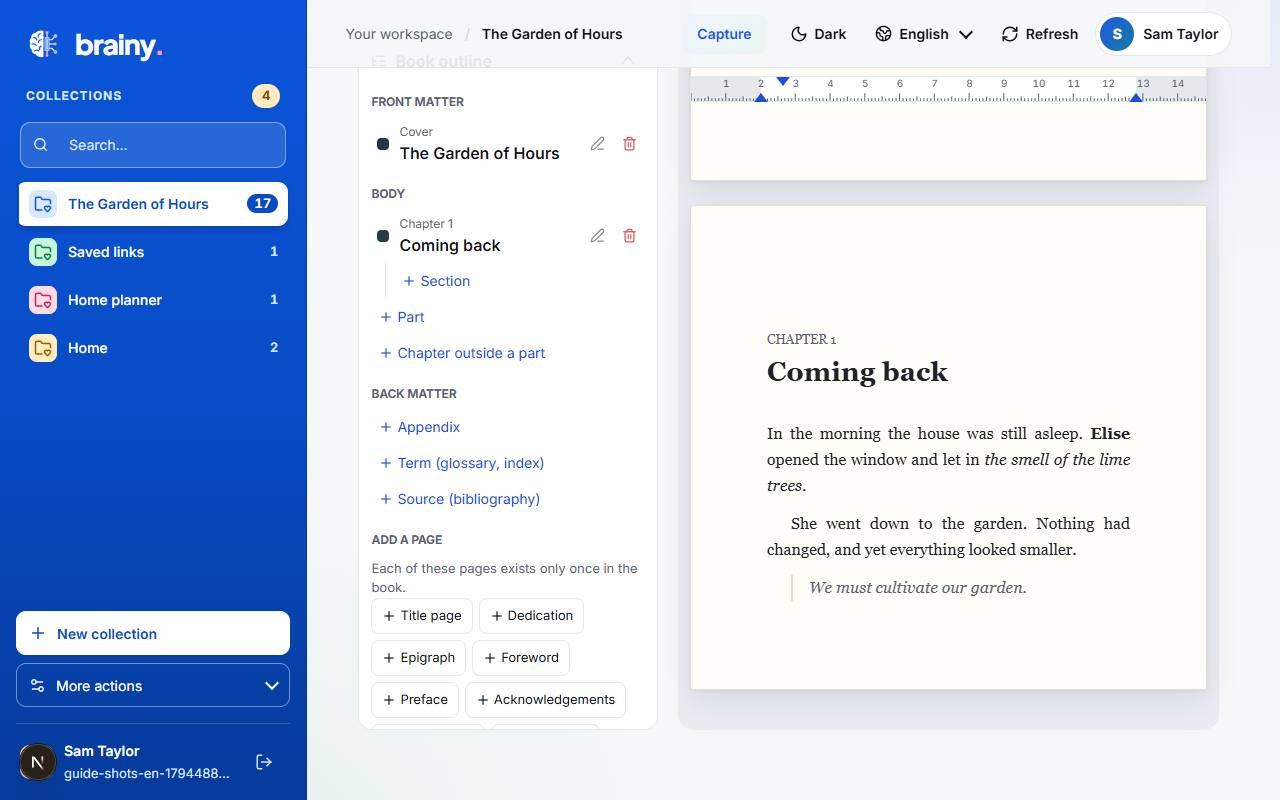
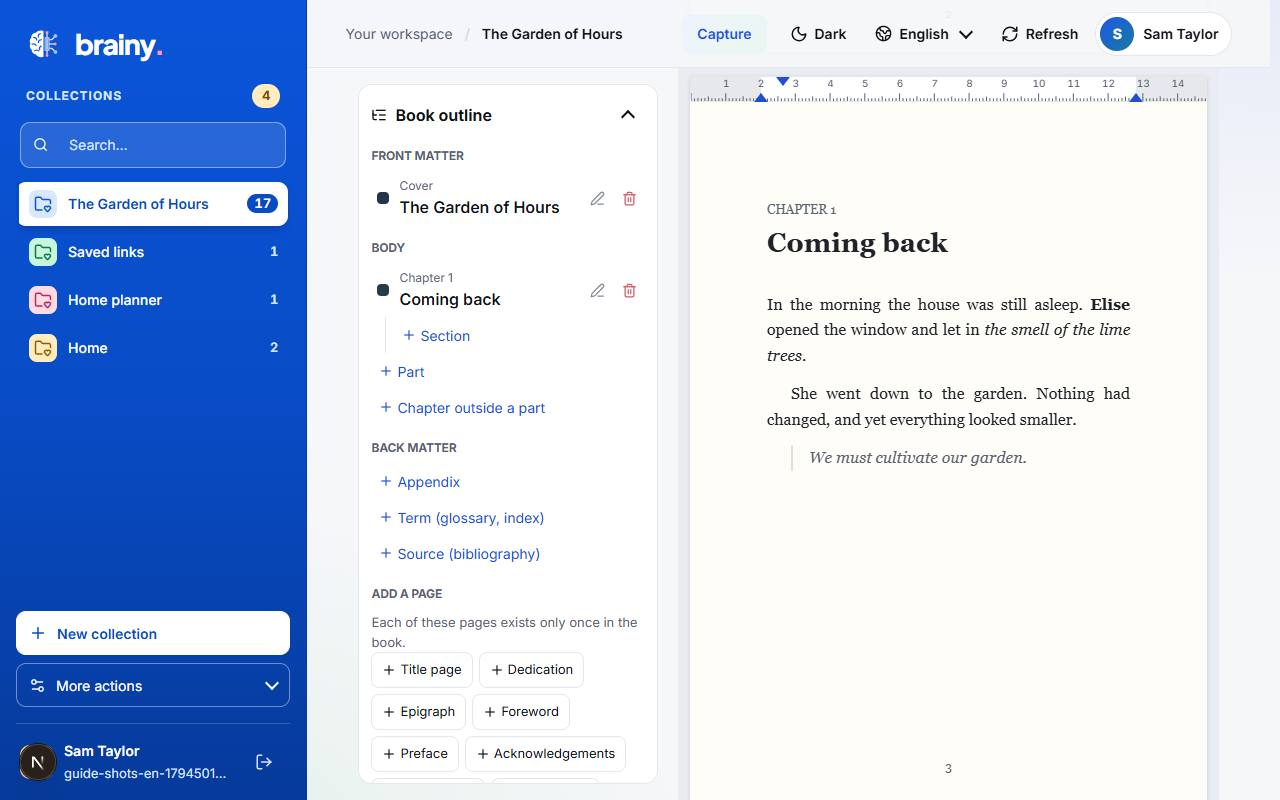
docs(guide): collaborator field, spreadsheet ranges, book pages and PDF, analyses by person, reminders and views in shared collections; recaptured

diff --git a/lib/guide_content.dart b/lib/guide_content.dart
@@ -34,8 +34,8 @@ const List<GuideChapter> guideChapters = [
     title: (en: "Data formats and field types", fr: "Formats de données et types de champs"),
     summary: (en: "All field types, units, choices and the rules that protect saved data.", fr: "Tous les types de champs, les unités, les choix et les règles qui protègent les données enregistrées."),
     sections: [
-      (title: (en: "Edit a data format", fr: "Modifier un format de données"), text: (en: "In the **Data formats** tab, each card shows its fields and number of entries. Use its menu to edit, change the color, duplicate or copy it to another collection. Field names are unique in a data format, without regard to case.\n\nA field that already holds values cannot be removed or change its type or unit, and its existing choices stay available. You can always rename, reorder and add fields.", fr: "Dans l’onglet **Formats de données**, chaque carte montre ses champs et son nombre d’entrées. Son menu permet de la modifier, de changer sa couleur, de la dupliquer ou de la copier vers une autre collection. Les noms de champs sont uniques dans un format de données, sans tenir compte des majuscules.\n\nUn champ qui contient déjà des valeurs ne peut être ni supprimé ni changer de type ou d’unité, et ses choix existants restent disponibles. Vous pouvez toujours renommer, réordonner et ajouter des champs."), image: "formats"),
-      (title: (en: "Field types", fr: "Types de champs"), text: (en: "- **Title, text, long text, single character, web link**.\n- **Number** without unit, with a suggested unit (kg, km, €, FCFA…) or your own unit; decimal comma is accepted.\n- **Date, time, date and time, duration**.\n- **Checkbox (yes/no)**: a real checkbox in every form.\n- **Single or multiple choice** from a list you define.\n- **Attachment**: up to 2 MiB per file and 8 MiB per entry, larger files by reference.\n- **Measure**: a value with unit, uncertainty, quality and instrument.\n- **Object reference, code (classification), position and zone (map)** for advanced uses.", fr: "- **Titre, texte, texte long, caractère unique, lien web**.\n- **Nombre** sans unité, avec une unité proposée (kg, km, €, FCFA…) ou votre propre unité ; la virgule décimale est acceptée.\n- **Date, heure, date et heure, durée**.\n- **Case à cocher (oui/non)** : une vraie case dans tous les formulaires.\n- **Choix unique ou multiple** dans une liste que vous définissez.\n- **Pièce jointe** : 2 Mio par fichier et 8 Mio par entrée, les fichiers plus lourds par référence.\n- **Mesure** : une valeur avec unité, incertitude, qualité et instrument.\n- **Référence d’objet, code (classification), position et zone (carte)** pour les usages avancés."), image: "format-editor"),
+      (title: (en: "Edit a data format", fr: "Modifier un format de données"), text: (en: "In the **Data formats** tab, each card shows its fields and number of entries. Use its menu to edit, change the color, duplicate or copy it to another collection. Field names are unique in a data format, without regard to case.\n\nA field that already holds values cannot be removed or change its type or unit, and its existing choices stay available. You can always rename, reorder and add fields.\n\nIn the editor, **A single entry for this data format** keeps it to one entry, for a cover or a preface for example.", fr: "Dans l’onglet **Formats de données**, chaque carte montre ses champs et son nombre d’entrées. Son menu permet de la modifier, de changer sa couleur, de la dupliquer ou de la copier vers une autre collection. Les noms de champs sont uniques dans un format de données, sans tenir compte des majuscules.\n\nUn champ qui contient déjà des valeurs ne peut être ni supprimé ni changer de type ou d’unité, et ses choix existants restent disponibles. Vous pouvez toujours renommer, réordonner et ajouter des champs.\n\nDans l’éditeur, **Une seule entrée pour ce format de données** le limite à une entrée, par exemple pour une couverture ou une préface."), image: "formats"),
+      (title: (en: "Field types", fr: "Types de champs"), text: (en: "- **Title, text, long text, single character, web link**.\n- **Number** without unit, with a suggested unit (kg, km, €, FCFA…) or your own unit; decimal comma is accepted.\n- **Date, time, date and time, duration**.\n- **Checkbox (yes/no)**: a real checkbox in every form.\n- **Single or multiple choice** from a list you define.\n- **Attachment**: up to 2 MiB per file and 8 MiB per entry, larger files by reference.\n- **Measure**: a value with unit, uncertainty, quality and instrument.\n- **Object reference, code (classification), position and zone (map)** for advanced uses.\n- **Collaborator**: one or more people chosen among the collection owner and the owner’s collaborators, for example “Done by” in a task. A person whose collaboration ends stays on the entries already saved.", fr: "- **Titre, texte, texte long, caractère unique, lien web**.\n- **Nombre** sans unité, avec une unité proposée (kg, km, €, FCFA…) ou votre propre unité ; la virgule décimale est acceptée.\n- **Date, heure, date et heure, durée**.\n- **Case à cocher (oui/non)** : une vraie case dans tous les formulaires.\n- **Choix unique ou multiple** dans une liste que vous définissez.\n- **Pièce jointe** : 2 Mio par fichier et 8 Mio par entrée, les fichiers plus lourds par référence.\n- **Mesure** : une valeur avec unité, incertitude, qualité et instrument.\n- **Référence d’objet, code (classification), position et zone (carte)** pour les usages avancés.\n- **Collaborateur** : une ou plusieurs personnes choisies parmi le propriétaire de la collection et ses collaborateurs, par exemple « Effectuée par » dans une tâche. Une personne dont la collaboration prend fin reste sur les entrées déjà enregistrées."), image: "format-editor"),
     ],
   ),
   (
@@ -55,7 +55,7 @@ const List<GuideChapter> guideChapters = [
     summary: (en: "Save the way you look at your entries and work in a spreadsheet.", fr: "Enregistrez votre façon de regarder vos entrées et travaillez comme dans un tableur."),
     sections: [
       (title: (en: "Saved views", fr: "Vues enregistrées"), text: (en: "A view keeps a layout, the data formats shown, columns, search, filter and order. Use **Save a view** in the Entries tab, then pick it in the **View** list. Layouts: list, table, cards, tasks (done checkbox, due date, priority) and calendar (start and end, time zone, recurrences).\n\nThe **manual order** sorts entries by a number field, for example chapters of a book.", fr: "Une vue garde une présentation, les formats de données affichés, les colonnes, la recherche, le filtre et l’ordre. Utilisez **Enregistrer une vue** dans l’onglet Entrées, puis choisissez-la dans la liste **Vue**. Présentations : liste, tableau, fiches, tâches (case terminée, échéance, priorité) et agenda (début et fin, fuseau horaire, répétitions).\n\nL’**ordre saisi** trie les entrées selon un champ nombre, par exemple les chapitres d’un livre."), image: null),
-      (title: (en: "Spreadsheet mode", fr: "Mode tableur"), text: (en: "In a table view, turn on **Spreadsheet mode** to edit cells directly: arrows, Enter or F2 to edit, Tab, Esc, Delete. Add a row or a column; a number column asks for its unit (or “No unit”). An invalid value stays shown with the reason. Complex types open the full form.", fr: "Dans une vue tableau, activez le **mode tableur** pour modifier les cellules directement : flèches, Entrée ou F2 pour modifier, Tab, Échap, Suppr. Ajoutez une ligne ou une colonne ; une colonne nombre demande son unité (ou « Sans unité »). Une valeur invalide reste affichée avec la raison. Les types complexes ouvrent le formulaire complet."), image: "table"),
+      (title: (en: "Spreadsheet mode", fr: "Mode tableur"), text: (en: "In a table view, turn on **Spreadsheet mode** to edit cells directly: arrows, Enter or F2 to edit, Tab, Esc, Delete. Add a row or a column; a number column asks for its unit (or “No unit”). An invalid value stays shown with the reason. Complex types open the full form.\n\nClick a column title to sort (again for the reverse order, a third time to undo). Drag the edge of a title to widen a column, or use the left and right arrows on it; double-click restores the width. **Shift + arrows** or **Shift + click** select several cells (long press on a touch screen); **Ctrl+C** and **Ctrl+V** copy and paste with Excel, Sheets or LibreOffice, and pasted lines below the table become new rows; **Ctrl+D** copies the first selected row into the rows below.", fr: "Dans une vue tableau, activez le **mode tableur** pour modifier les cellules directement : flèches, Entrée ou F2 pour modifier, Tab, Échap, Suppr. Ajoutez une ligne ou une colonne ; une colonne nombre demande son unité (ou « Sans unité »). Une valeur invalide reste affichée avec la raison. Les types complexes ouvrent le formulaire complet.\n\nCliquez sur le titre d’une colonne pour trier (encore une fois pour l’ordre inverse, une troisième pour annuler). Faites glisser le bord d’un titre pour élargir une colonne, ou utilisez les flèches gauche et droite dessus ; un double clic rend la largeur d’origine. **Maj + flèches** ou **Maj + clic** sélectionnent plusieurs cellules (appui long sur un écran tactile) ; **Ctrl+C** et **Ctrl+V** copient et collent avec Excel, Sheets ou LibreOffice, et les lignes collées sous le tableau deviennent de nouvelles lignes ; **Ctrl+D** recopie la première ligne sélectionnée dans les lignes en dessous."), image: "table"),
     ],
   ),
   (
@@ -67,7 +67,7 @@ const List<GuideChapter> guideChapters = [
       (title: (en: "Task list: day and calendar", fr: "Liste de tâches : jour et calendrier"), text: (en: "Each task is either done **once** over a period or **repeats**: every day, every N days, some weekdays, every week or every month. The form only shows the fields that matter for your choice.\n\n- **Tasks by day**: overdue, to do and done, with a progress bar. A repeating task is checked day by day and a missed day stays missed.\n- **Task calendar**: the month with a done/total counter per day; click a day to see and check its tasks.\n- A reminder set on the **Start** of a repeating task comes back at each open occurrence.", fr: "Chaque tâche est faite **une seule fois** sur une période ou **revient** : chaque jour, tous les N jours, certains jours de la semaine, chaque semaine ou chaque mois. Le formulaire n’affiche que les champs utiles à votre choix.\n\n- **Tâches du jour** : en retard, à faire et faites, avec une barre de progression. Une tâche qui revient se coche jour par jour et un jour oublié reste manqué.\n- **Calendrier des tâches** : le mois avec un compteur faites/total par jour ; cliquez sur un jour pour voir et cocher ses tâches.\n- Un rappel posé sur le **Début** d’une tâche qui revient se reprogramme à chaque occurrence non cochée."), image: "tasks-day"),
       (title: (en: "Calendar of the month", fr: "Le calendrier du mois"), text: (en: "The calendar shows at a glance which days are complete (green), late (red) or still open. On a phone, each day shows its counter only.", fr: "Le calendrier montre d’un coup d’œil les jours terminés (vert), en retard (rouge) ou encore ouverts. Sur téléphone, chaque jour n’affiche que son compteur."), image: "tasks-calendar"),
       (title: (en: "Saved links with previews", fr: "Liens conservés avec aperçu"), text: (en: "In a Saved links collection, a link field holding a web address shows a preview: image, title, description and site, with a play button for videos. Brainy fetches the preview safely and copies the image, so the site never sees your device.", fr: "Dans une collection Liens conservés, un champ lien qui contient une adresse web affiche un aperçu : image, titre, description et site, avec un bouton lecture pour les vidéos. Brainy récupère l’aperçu de façon sûre et recopie l’image : le site ne voit jamais votre appareil."), image: "links"),
-      (title: (en: "Book: write and lay out", fr: "Livre : écrire et mettre en page"), text: (en: "The Book template creates the parts of a book: cover, front matter, parts, chapters, sections, appendices, terms and sources. Single pages (preface, dedication…) accept one entry; a chapter can only go under a part.\n\nThe **book view** shows real pages: click a text to edit it with **bold**, *italic*, subheadings and quotes, change fonts, sizes, spacing and margins with the ruler, then **Print or PDF** on the web.", fr: "Le modèle Livre crée les parties d’un livre : couverture, pages liminaires, parties, chapitres, sections, annexes, termes et sources. Les pages uniques (préface, dédicace…) n’acceptent qu’une entrée ; un chapitre ne se place que sous une partie.\n\nLa **vue livre** montre de vraies pages : cliquez sur un texte pour le modifier avec **gras**, *italique*, intertitres et citations, réglez polices, tailles, espacements et marges avec la règle, puis **Imprimer ou PDF** sur le web."), image: "book"),
+      (title: (en: "Book: write and lay out", fr: "Livre : écrire et mettre en page"), text: (en: "The Book template creates the parts of a book: cover, front matter, parts, chapters, sections, appendices, terms and sources. Single pages (preface, dedication…) accept one entry; a chapter can only go under a part.\n\nThe **book view** shows real pages: click a text to edit it with **bold**, *italic*, subheadings and quotes, change fonts, sizes, spacing and margins with the ruler, then **Print or PDF** on the web.\n\n**Pages** shows the book cut into real pages with their numbers; the contents and the index then give page numbers. **Save as PDF** (mobile and desktop) or **Print or PDF** (web) produces the file. Under **Data formats in the book**, the owner chooses how any other data format appears: part, chapter, section, appendix, term or source. In a shared collection, each part shows who wrote it and who changed it last.", fr: "Le modèle Livre crée les parties d’un livre : couverture, pages liminaires, parties, chapitres, sections, annexes, termes et sources. Les pages uniques (préface, dédicace…) n’acceptent qu’une entrée ; un chapitre ne se place que sous une partie.\n\nLa **vue livre** montre de vraies pages : cliquez sur un texte pour le modifier avec **gras**, *italique*, intertitres et citations, réglez polices, tailles, espacements et marges avec la règle, puis **Imprimer ou PDF** sur le web.\n\n**Pages** montre le livre découpé en vraies pages numérotées ; la table des matières et l’index donnent alors les numéros de page. **Enregistrer en PDF** (mobile et ordinateur) ou **Imprimer ou PDF** (web) produit le fichier. Sous **Formats de données dans le livre**, le propriétaire choisit comment tout autre format de données apparaît : partie, chapitre, section, annexe, terme ou source. Dans une collection partagée, chaque partie montre qui l’a écrite et qui l’a modifiée en dernier."), image: "book"),
       (title: (en: "Other templates", fr: "Autres modèles"), text: (en: "- **Expenses** and **KT personal**: amounts with week, month and year totals.\n- **Calendar**: events with start, end and place.\n- **Fitness**: exercises, workouts, sets and a training calendar.\n- **Measurements** (science, weather, health, machines): dated values with quality and source.\n- **Shop and stock**: products, suppliers and confirmed stock movements.", fr: "- **Dépenses** et **KT personal** : des montants avec totaux de la semaine, du mois et de l’année.\n- **Agenda** : rendez-vous avec début, fin et lieu.\n- **Entraînement et sport** : exercices, séances, séries et calendrier d’entraînement.\n- **Mesures** (science, météo, santé, machines) : valeurs datées avec qualité et source.\n- **Commerce et stock** : produits, fournisseurs et mouvements de stock validés."), image: null),
     ],
   ),
@@ -77,7 +77,7 @@ const List<GuideChapter> guideChapters = [
     title: (en: "Calculations, statistics and charts", fr: "Calculs, statistiques et graphiques"),
     summary: (en: "Formulas, analyses, charts and forecasts: the first step toward studying your data.", fr: "Formules, analyses, graphiques et prévisions : le premier pas vers l’étude de vos données."),
     sections: [
-      (title: (en: "Analyze a field", fr: "Analyser un champ"), text: (en: "Open **Calculations** in the collection header. Choose a data format, a field and an operation: count, sum, average, minimum, maximum, median, percentiles, rates, weighted averages, moving windows… Group by day, month, category, object or zone, compare two periods and filter.\n\nResults keep their units and are shown as a key figure or a chart: bars, lines, several series, stacked areas, gauge, scatter plot or radar, with zoom and export.", fr: "Ouvrez **Calculs** dans l’en-tête de la collection. Choisissez un format de données, un champ et une opération : nombre, somme, moyenne, minimum, maximum, médiane, percentiles, taux, moyennes pondérées, fenêtres glissantes… Regroupez par jour, mois, catégorie, objet ou zone, comparez deux périodes et filtrez.\n\nLes résultats gardent leurs unités et s’affichent en chiffre clé ou en graphique : barres, courbes, plusieurs séries, aires empilées, jauge, nuage de points ou radar, avec zoom et export."), image: "insights"),
+      (title: (en: "Analyze a field", fr: "Analyser un champ"), text: (en: "Open **Calculations** in the collection header. Choose a data format, a field and an operation: count, sum, average, minimum, maximum, median, percentiles, rates, weighted averages, moving windows… Group by day, month, category, object or zone, compare two periods and filter.\n\nResults keep their units and are shown as a key figure or a chart: bars, lines, several series, stacked areas, gauge, scatter plot or radar, with zoom and export.\n\nWith a collaborator field, **Person** groups the results by person: an entry counts for each person it names.", fr: "Ouvrez **Calculs** dans l’en-tête de la collection. Choisissez un format de données, un champ et une opération : nombre, somme, moyenne, minimum, maximum, médiane, percentiles, taux, moyennes pondérées, fenêtres glissantes… Regroupez par jour, mois, catégorie, objet ou zone, comparez deux périodes et filtrez.\n\nLes résultats gardent leurs unités et s’affichent en chiffre clé ou en graphique : barres, courbes, plusieurs séries, aires empilées, jauge, nuage de points ou radar, avec zoom et export.\n\nAvec un champ collaborateur, **Personne** regroupe les résultats par personne : une entrée compte pour chaque personne qu’elle nomme."), image: "insights"),
       (title: (en: "Formulas and forecasts", fr: "Formules et prévisions"), text: (en: "- **Formulas** compute a value for each entry from its fields and the properties of referenced objects (with units, dates, text and conditions); cycles and divisions by zero are refused.\n- **Forecasts** (average or linear trend) are explainable, can leave out a period and always stay separate from real observations.\n- **Sensitivity limits** hide groups that are too small when you analyze personal data.", fr: "- Les **formules** calculent une valeur pour chaque entrée à partir de ses champs et des propriétés des objets référencés (avec unités, dates, texte et conditions) ; les cycles et divisions par zéro sont refusés.\n- Les **prévisions** (moyenne ou tendance linéaire) sont explicables, peuvent écarter une période et restent toujours séparées des observations réelles.\n- Les **seuils de sensibilité** masquent les groupes trop petits quand vous analysez des données personnelles."), image: null),
     ],
   ),
@@ -109,7 +109,7 @@ const List<GuideChapter> guideChapters = [
     sections: [
       (title: (en: "Become collaborators", fr: "Devenir collaborateurs"), text: (en: "You can only share with a **collaborator**. Open **More actions → Collaborators**: you have a personal link to send by WhatsApp, Facebook, e-mail… The person who opens it signs in or creates an account, then clicks **Accept the collaboration**.\n\nBeing collaborators gives access to **nothing** yet: each of you then decides, collection by collection, what to share.\n- **Create a new link** cancels the old one; your current collaborators stay.\n- In the mobile and desktop app, paste a link you received in **Accept a link you received**.\n- **End collaboration** removes every share between you two, in both directions.", fr: "Vous ne pouvez partager qu’avec un **collaborateur**. Ouvrez **Autres actions → Collaborateurs** : vous y trouvez votre lien personnel à envoyer par WhatsApp, Facebook, e-mail… La personne qui l’ouvre se connecte ou crée un compte, puis clique sur **Accepter la collaboration**.\n\nÊtre collaborateurs ne donne encore accès à **rien** : chacun décide ensuite, collection par collection, ce qu’il partage.\n- **Créer un nouveau lien** annule l’ancien ; vos collaborateurs actuels restent.\n- Dans l’application mobile et ordinateur, collez un lien reçu dans **Accepter un lien reçu**.\n- **Mettre fin à la collaboration** retire tous les partages entre vous deux, dans les deux sens."), image: "collaborators"),
       (title: (en: "Share a collection", fr: "Partager une collection"), text: (en: "1. Open your collection and click **Share** in its header (only the owner sees it).\n2. For each collaborator, choose **Read only** or **Read and write**, or leave **No access**.\n3. The change applies at once; choose **No access** to remove the access.\n\nThe collection then appears for that person in the **Shared** tab at the top of the collection list, with your name. **Mine** brings back their own collections; each tab shows how many collections it holds.", fr: "1. Ouvrez votre collection et cliquez sur **Partager** dans son en-tête (seul le propriétaire le voit).\n2. Pour chaque collaborateur, choisissez **Lecture seule** ou **Lecture et écriture**, ou laissez **Aucun accès**.\n3. Le changement s’applique aussitôt ; choisissez **Aucun accès** pour retirer l’accès.\n\nLa collection apparaît alors chez cette personne dans l’onglet **Partagées**, en haut de la liste des collections, avec votre nom. **À moi** ramène ses propres collections ; chaque onglet indique combien de collections il contient."), image: "share"),
-      (title: (en: "Work in a shared collection", fr: "Travailler dans une collection partagée"), text: (en: "A banner recalls who shared the collection and your access.\n- **Read only**: you see, search, filter and copy the entries; nothing can be changed.\n- **Read and write**: you also create, edit and delete **entries**.\n- The structure stays with the owner: the **Data formats** tab, renaming, deleting and sharing are not shown to collaborators.\n\nEach entry shows at the top left the photo and name of the person who **created** it and, after a change, of the **last** person who edited it (not in the spreadsheet view).", fr: "Un bandeau rappelle qui a partagé la collection et votre accès.\n- **Lecture seule** : vous voyez, recherchez, filtrez et copiez les entrées ; rien ne peut être modifié.\n- **Lecture et écriture** : vous créez aussi, modifiez et supprimez les **entrées**.\n- La structure reste au propriétaire : l’onglet **Formats de données**, le renommage, la suppression et le partage ne sont pas proposés aux collaborateurs.\n\nChaque entrée montre en haut à gauche la photo et le nom de la personne qui l’a **créée** et, après une modification, de la **dernière** personne qui l’a modifiée (sauf en vue tableur)."), image: "shared-collection"),
+      (title: (en: "Work in a shared collection", fr: "Travailler dans une collection partagée"), text: (en: "A banner recalls who shared the collection and your access.\n- **Read only**: you see, search, filter and copy the entries; nothing can be changed.\n- **Read and write**: you also create, edit and delete **entries**.\n- The structure stays with the owner: the **Data formats** tab, renaming, deleting and sharing are not shown to collaborators.\n\nEach entry shows at the top left the photo and name of the person who **created** it and, after a change, of the **last** person who edited it (not in the spreadsheet view).\n- With read and write access, you can also set **your own reminders** on an entry; only you receive them.\n- **Saved views** are managed by the owner: everyone can choose and use them.", fr: "Un bandeau rappelle qui a partagé la collection et votre accès.\n- **Lecture seule** : vous voyez, recherchez, filtrez et copiez les entrées ; rien ne peut être modifié.\n- **Lecture et écriture** : vous créez aussi, modifiez et supprimez les **entrées**.\n- La structure reste au propriétaire : l’onglet **Formats de données**, le renommage, la suppression et le partage ne sont pas proposés aux collaborateurs.\n\nChaque entrée montre en haut à gauche la photo et le nom de la personne qui l’a **créée** et, après une modification, de la **dernière** personne qui l’a modifiée (sauf en vue tableur).\n- En lecture et écriture, vous pouvez aussi poser **vos propres rappels** sur une entrée ; vous seul les recevez.\n- Les **vues enregistrées** sont gérées par le propriétaire : chacun peut les choisir et les utiliser."), image: "shared-collection"),
       (title: (en: "Fields that stay private", fr: "Des champs qui restent privés"), text: (en: "In **Tools → Privacy**, the owner marks data formats and fields as personal or sensitive and chooses which fields each collaborator may see. Sensitive fields stay hidden from a share unless you allow them, and every important action is written in the audit log.", fr: "Dans **Outils → Confidentialité**, le propriétaire marque des formats de données et des champs comme personnels ou sensibles et choisit les champs que chaque collaborateur peut voir. Les champs sensibles restent masqués dans un partage sauf si vous les autorisez, et chaque action importante est inscrite au journal d’audit."), image: "privacy"),
       (title: (en: "Collect, copy, publish", fr: "Collecter, copier, publier"), text: (en: "- **Public contributions**: a form link for people without an account; answers wait in quarantine until you accept them.\n- **Copy, move or link** a data format or an object to another collection, always with a preview and an explicit target.\n- **Domain packages** share a structure (data formats, units, lists) without any entry, with an optional signature.\n- **Import and export** (More actions) in CSV or Brainy files, and full **backups** (Workspace tools).", fr: "- **Contributions publiques** : un lien de formulaire pour des personnes sans compte ; les réponses attendent en quarantaine que vous les acceptiez.\n- **Copier, déplacer ou lier** un format de données ou un objet vers une autre collection, toujours avec un aperçu et une cible explicite.\n- Les **paquets de domaine** partagent une structure (formats, unités, listes) sans aucune entrée, avec une signature facultative.\n- **Importer et exporter** (Autres actions) en CSV ou fichier Brainy, et **sauvegardes** complètes (Outils de l’espace)."), image: null),
     ],
